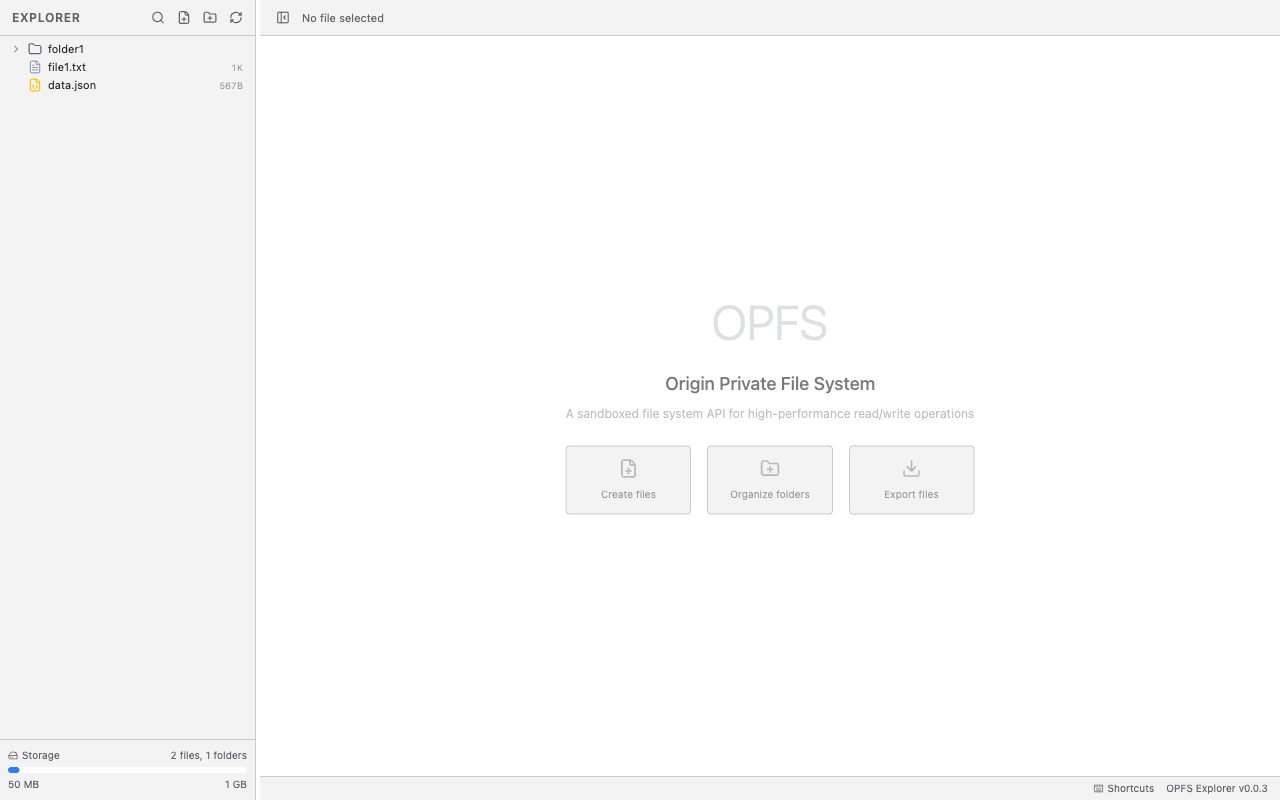
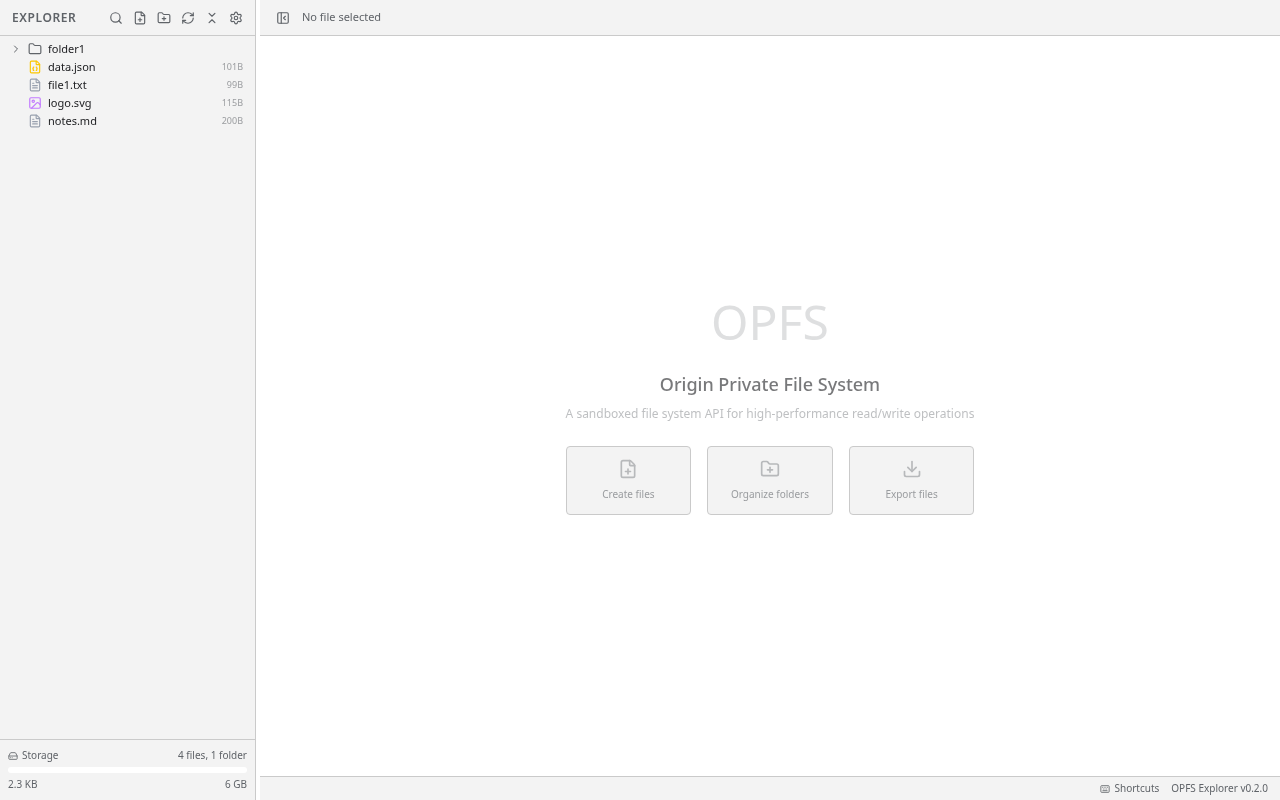
chore(release): 0.2.0

diff --git a/CHANGELOG.md b/CHANGELOG.md
@@ -7,6 +7,8 @@ and this project adheres to [Semantic Versioning](https://semver.org/spec/v2.0.0
 
 ## [Unreleased]
 
+## [0.2.0] - 2026-09-01
+
 ### Added
 
 - **JSON formatting**: A "Format" button appears in the editor toolbar for `.json` files, reformatting the current content with configurable indentation (2 spaces, 4 spaces, or tab) and an optional recursive alphabetical key sort both configurable in the new Settings panel and persisted across sessions. Invalid JSON shows a toast instead of corrupting the buffer.
